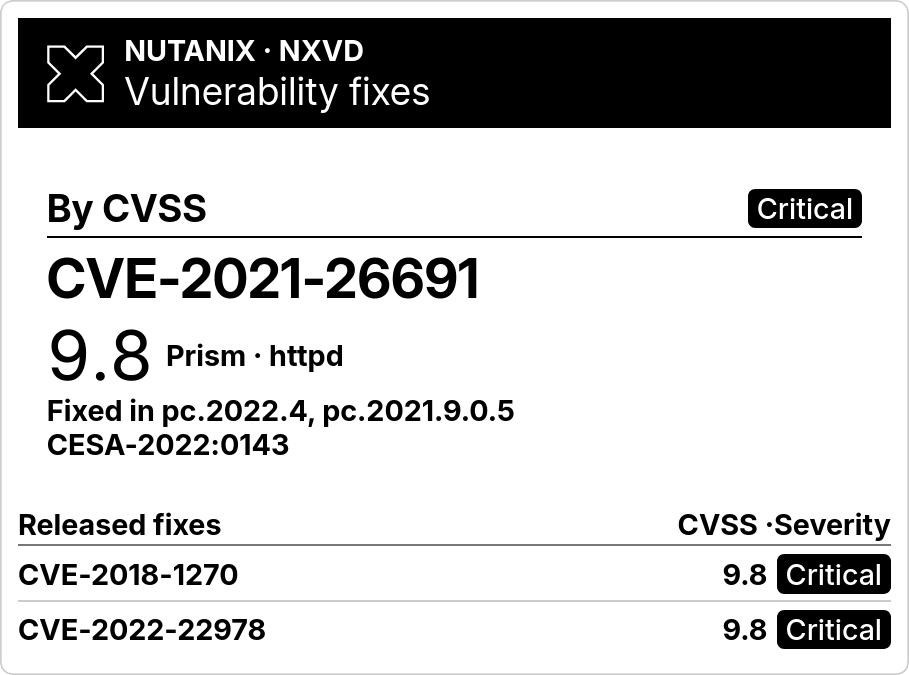
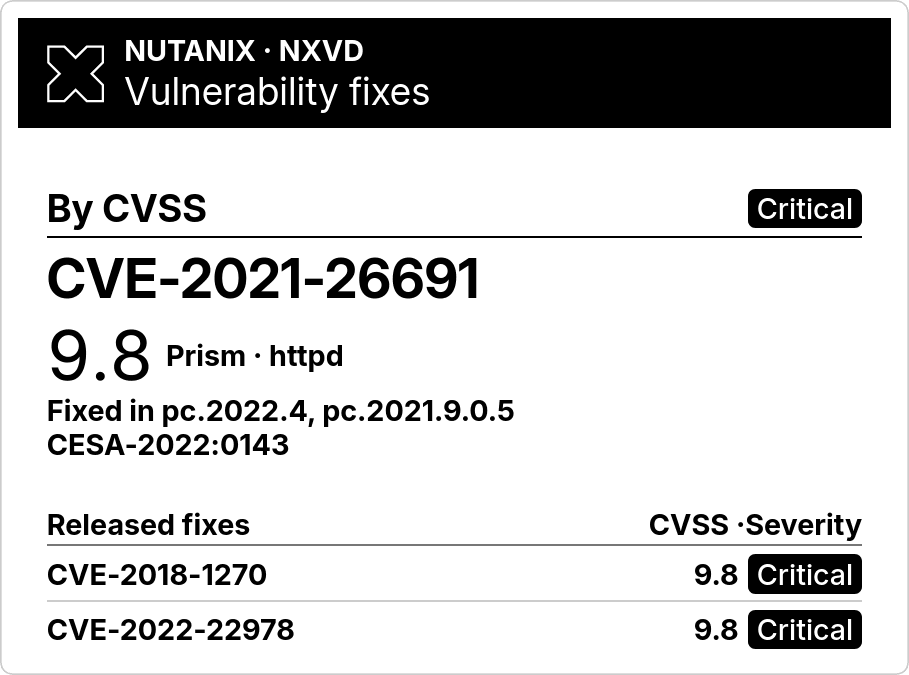
fix: align stacked advisory and table gutters

Changed region(s): [[0.7085, 0.7467, 0.9857, 0.9644], [0.0, 0.7467, 0.308, 0.8711], [0.0, 0.9022, 0.3388, 0.9644]]

diff --git a/TRMNL/tests/layout_spec.rb b/TRMNL/tests/layout_spec.rb
@@ -90,7 +90,10 @@ RSpec.describe 'Nutanix Security layouts' do
               const frame = document.querySelector('.layout').getBoundingClientRect();
               const mast = document.querySelector('[data-ns-mast]');
               const lead = document.querySelector('[data-ns-lead]')?.getBoundingClientRect();
+              const leadRule = document.querySelector('[data-ns-order]')?.parentElement.getBoundingClientRect();
               const table = document.querySelector('table');
+              const tableBox = table?.getBoundingClientRect();
+              const beside = Boolean(tableBox && lead && tableBox.left >= lead.right - 1);
               const rows = [...document.querySelectorAll('[data-ns-row]')].filter(row => row.getClientRects().length);
               const boxes = [...rows, ...document.querySelectorAll('thead, [data-ns-lead]')]
                 .filter(element => element.getClientRects().length)
@@ -106,7 +109,11 @@ RSpec.describe 'Nutanix Security layouts' do
                 widthOverflow: mast.scrollWidth - mast.clientWidth,
                 clipped: boxes.some(box => box.top < frame.top - 1 || box.bottom > frame.bottom + 1 ||
                                           box.left < frame.left - 1 || box.right > frame.right + 1),
-                beside: Boolean(table && lead && table.getBoundingClientRect().left >= lead.right - 1),
+                beside,
+                gutterDifference: rows.length && !beside ? Math.max(
+                  Math.abs(table.querySelector('th .title').getBoundingClientRect().left - leadRule.left),
+                  Math.abs(tableBox.right - leadRule.right)
+                ) : 0,
                 columns: table ? [...table.querySelectorAll('th')].filter(cell => cell.getClientRects().length).length : 0
               };
             })()
@@ -114,6 +121,7 @@ RSpec.describe 'Nutanix Security layouts' do
           expect(geometry['widthOverflow']).to be <= 1
           expect(geometry['clipped']).to be(false)
           expect(geometry['cellOverflow']).to be(false)
+          expect(geometry['gutterDifference']).to be <= 1
           remaining = [count - 1, 0].max
           expect(geometry['rows']).to eq([remaining, row_limits.fetch(device_name)[view_index]].min)
           expect(geometry['renderedRows']).to eq([remaining, row_limits.fetch('x')[view_index]].min)
